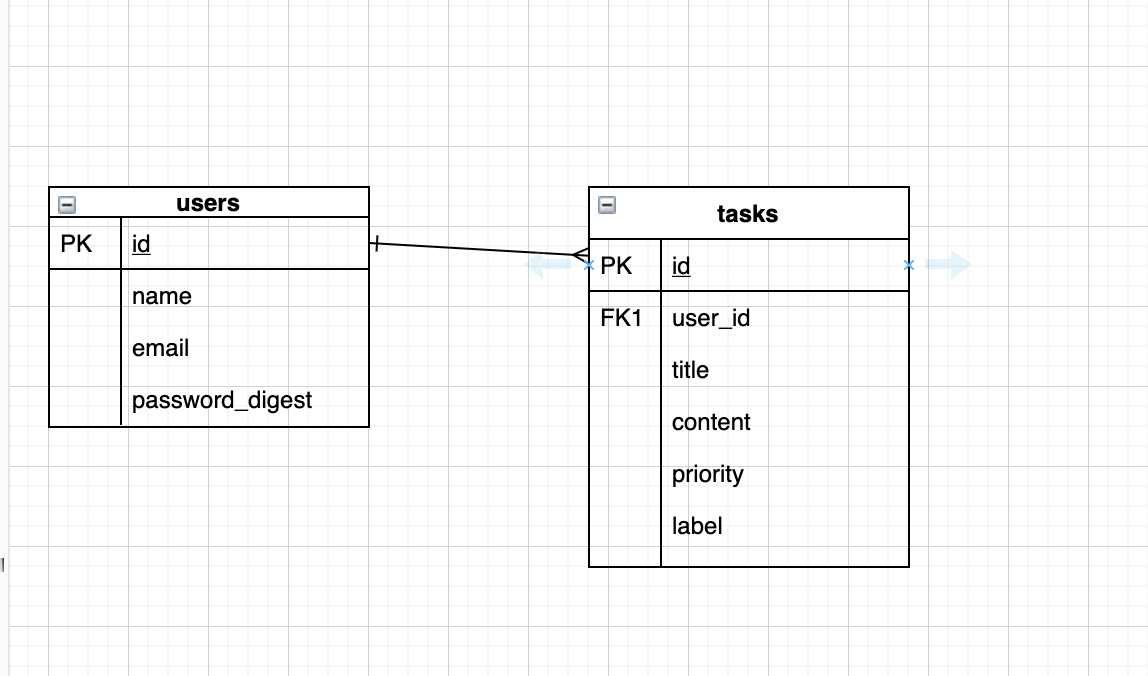
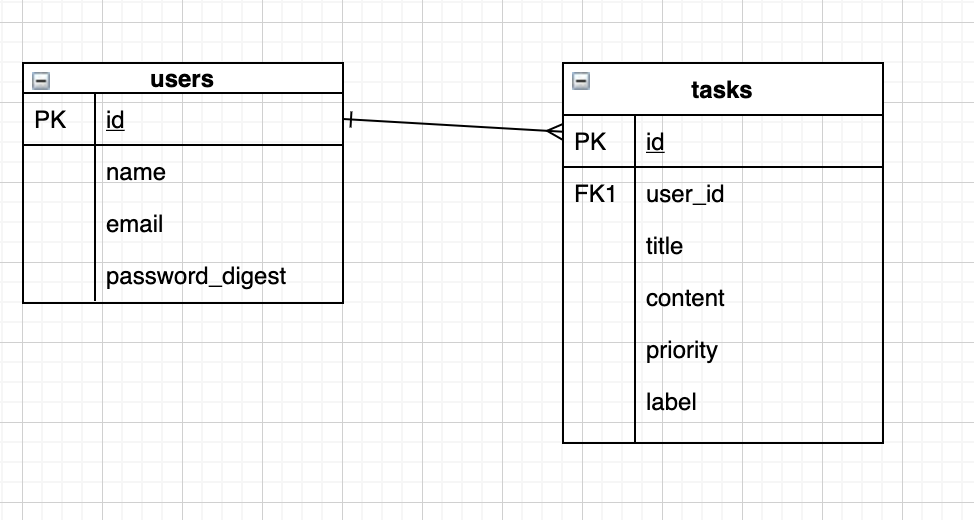
ER図の画像の差し替え

diff --git a/README.md b/README.md
@@ -20,4 +20,4 @@
 |5|ラベル|label|string||||||全て半角かつ小文字|
 |6|ユーザーID|user_id|integer||||FK||登録者のID|
 
-![er_img](https://user-images.githubusercontent.com/60313195/76681300-fc924b80-6634-11ea-90e3-7cc8e3a17777.png)
+![er_img](https://user-images.githubusercontent.com/60313195/76681454-3021a580-6636-11ea-8d84-1e2b23e4a936.png)
